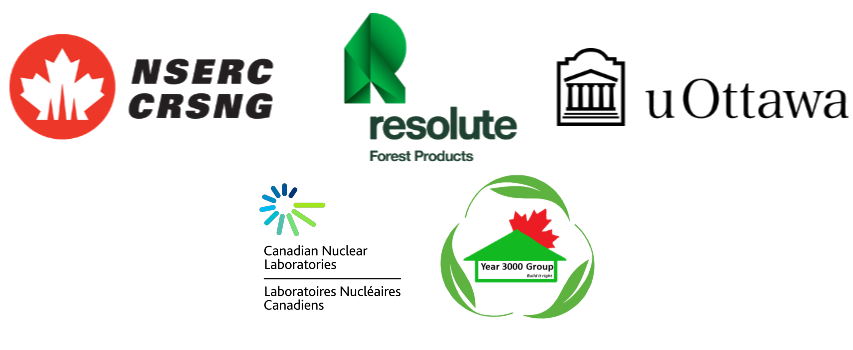
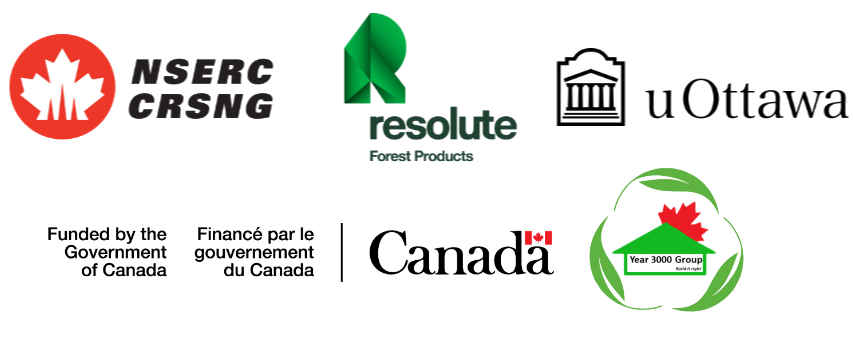
compose sponsors with grid, replace CNL with gov

Changed region(s): [[0.0305, 0.4571, 0.8839, 0.9143]]

diff --git a/src/pages/Sponsors.tsx b/src/pages/Sponsors.tsx
@@ -1,4 +1,11 @@
-import sponsorImg from "../images/sponsors.png";
+import sponsorGovernment from "../images/sponsors/3li_EnFr_Wordmark_C.png";
+import sponsorNSERC from "../images/sponsors/NSERC.png";
+import sponsorResolute from "../images/sponsors/resolute-forest-products-transparent.png";
+import sponsorYear3000 from "../images/sponsors/Year3000GroupTransparentLogo.png";
+import sponsorUOttawa from "../images/sponsors/uOttawa_HOR_BLACK.png";
+// Don't use one big image block
+//import sponsorImg from "../images/sponsors.png";
+
 import { useTranslation } from "react-i18next";
 
 /**
@@ -11,13 +18,26 @@ const Sponsors = () => {
 
   return (
     <div id="sponsors" className="flex justify-center bg-gray-100 px-4 lg:px-0">
-      <div className="lg:w-1/3 py-10 text-center">
+      <div className="lg:w-2/5 py-10 text-center">
         {/* Sponsors title */}
         <h2 className="text-5xl font-normal leading-normal mt-0 mb-1">
           {t("sponsors")}
         </h2>
         {/* Sponsors image */}
-        <img src={sponsorImg} alt="sponsors" />
+        {/* <img src={sponsorImg} alt="sponsors" /> */}
+        <div className="md:grid grid-cols-6 gap-4 items-center">
+          <img
+            src={sponsorGovernment}
+            alt="sponsorLogo"
+            className="col-span-3"
+          />
+          <img src={sponsorUOttawa} alt="sponsorLogo" className="col-span-3" />
+          {[sponsorNSERC, sponsorResolute, sponsorYear3000].map(
+            (sponsor_img) => (
+              <img src={sponsor_img} alt="sponsorLogo" className="col-span-2" />
+            )
+          )}
+        </div>
       </div>
     </div>
   );
